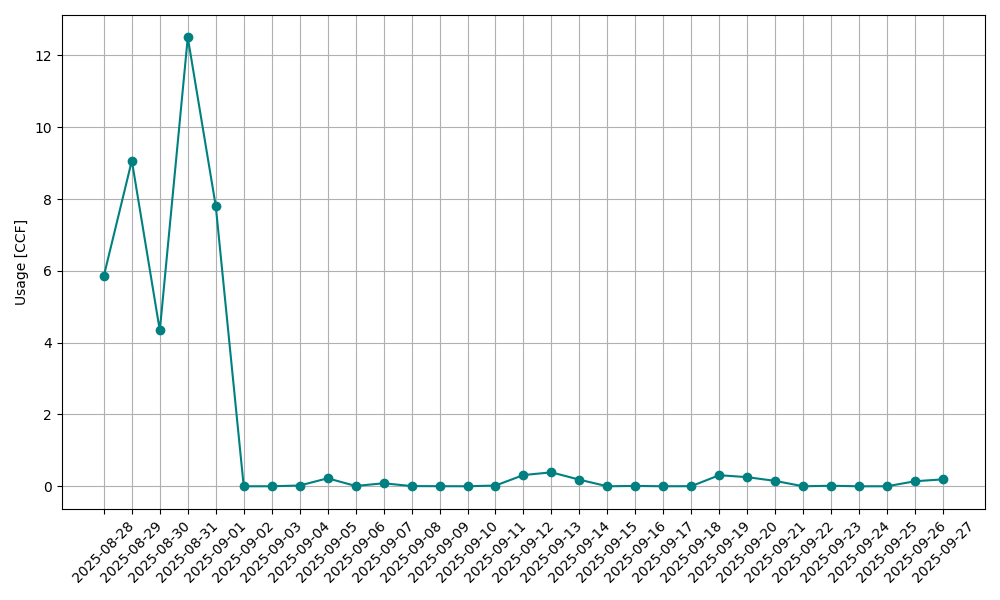
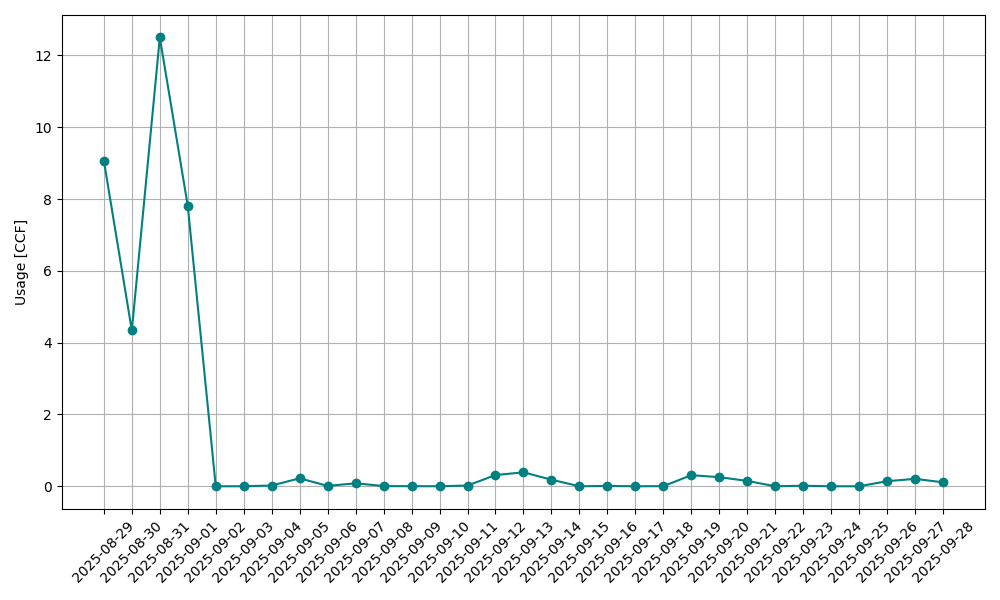
Telemetry + dashboard update from nightly run on 2025-09-29

diff --git a/docs/index.html b/docs/index.html
@@ -32,8 +32,7 @@
         <h3>📅 Last 30 Days of Use</h3>
 <table border="1" cellpadding="6" cellspacing="0">
     <thead><tr><th>Date</th><th>Usage (CCF)</th><th>Cost ($)</th></tr></thead>
-    <tbody><tr><td>2025-08-29</td><td>9.07</td><td>$60.77</td></tr>
-<tr><td>2025-08-30</td><td>4.34</td><td>$29.08</td></tr>
+    <tbody><tr><td>2025-08-30</td><td>4.34</td><td>$29.08</td></tr>
 <tr><td>2025-08-31</td><td>12.50</td><td>$83.76</td></tr>
 <tr><td>2025-09-01</td><td>7.81</td><td>$52.30</td></tr>
 <tr><td>2025-09-02</td><td>0.00</td><td>$0.01</td></tr>
@@ -61,11 +60,12 @@
 <tr><td>2025-09-24</td><td>0.00</td><td>$0.01</td></tr>
 <tr><td>2025-09-25</td><td>0.00</td><td>$0.01</td></tr>
 <tr><td>2025-09-26</td><td>0.14</td><td>$0.95</td></tr>
-<tr><td>2025-09-27</td><td>0.19</td><td>$1.30</td></tr></tbody>
+<tr><td>2025-09-27</td><td>0.21</td><td>$1.39</td></tr>
+<tr><td>2025-09-28</td><td>0.11</td><td>$0.74</td></tr></tbody>
 </table>
 
         
-        <p><em>Dashboard auto-updated on 2025-09-27</em></p>
+        <p><em>Dashboard auto-updated on 2025-09-28</em></p>
     </div>
 
     <div id="chemicals" class="tab-content">
@@ -101,8 +101,26 @@
     </thead>
     <tbody>
     <tr>
+        <td>2025-09-28</td>
+        <td>0.11</td>
+        <td>—</td>
+        <td>—</td>
+        <td>—</td>
+        <td>—</td>
+        <td>—</td>
+        <td>—</td>
+        <td>—</td>
+        <td>—</td>
+        <td>—</td>
+        <td>—</td>
+        <td>—</td>
+        <td>—</td>
+        <td>—</td>
+    </tr>
+    
+    <tr>
         <td>2025-09-27</td>
-        <td>0.19</td>
+        <td>0.21</td>
         <td>—</td>
         <td>—</td>
         <td>—</td>
@@ -337,24 +355,6 @@
     <tr>
         <td>2025-09-14</td>
         <td>0.18</td>
-        <td>—</td>
-        <td>—</td>
-        <td>—</td>
-        <td>—</td>
-        <td>—</td>
-        <td>—</td>
-        <td>—</td>
-        <td>—</td>
-        <td>—</td>
-        <td>—</td>
-        <td>—</td>
-        <td>—</td>
-        <td>—</td>
-    </tr>
-    
-    <tr>
-        <td>2025-09-13</td>
-        <td>0.39</td>
         <td>—</td>
         <td>—</td>
         <td>—</td>
